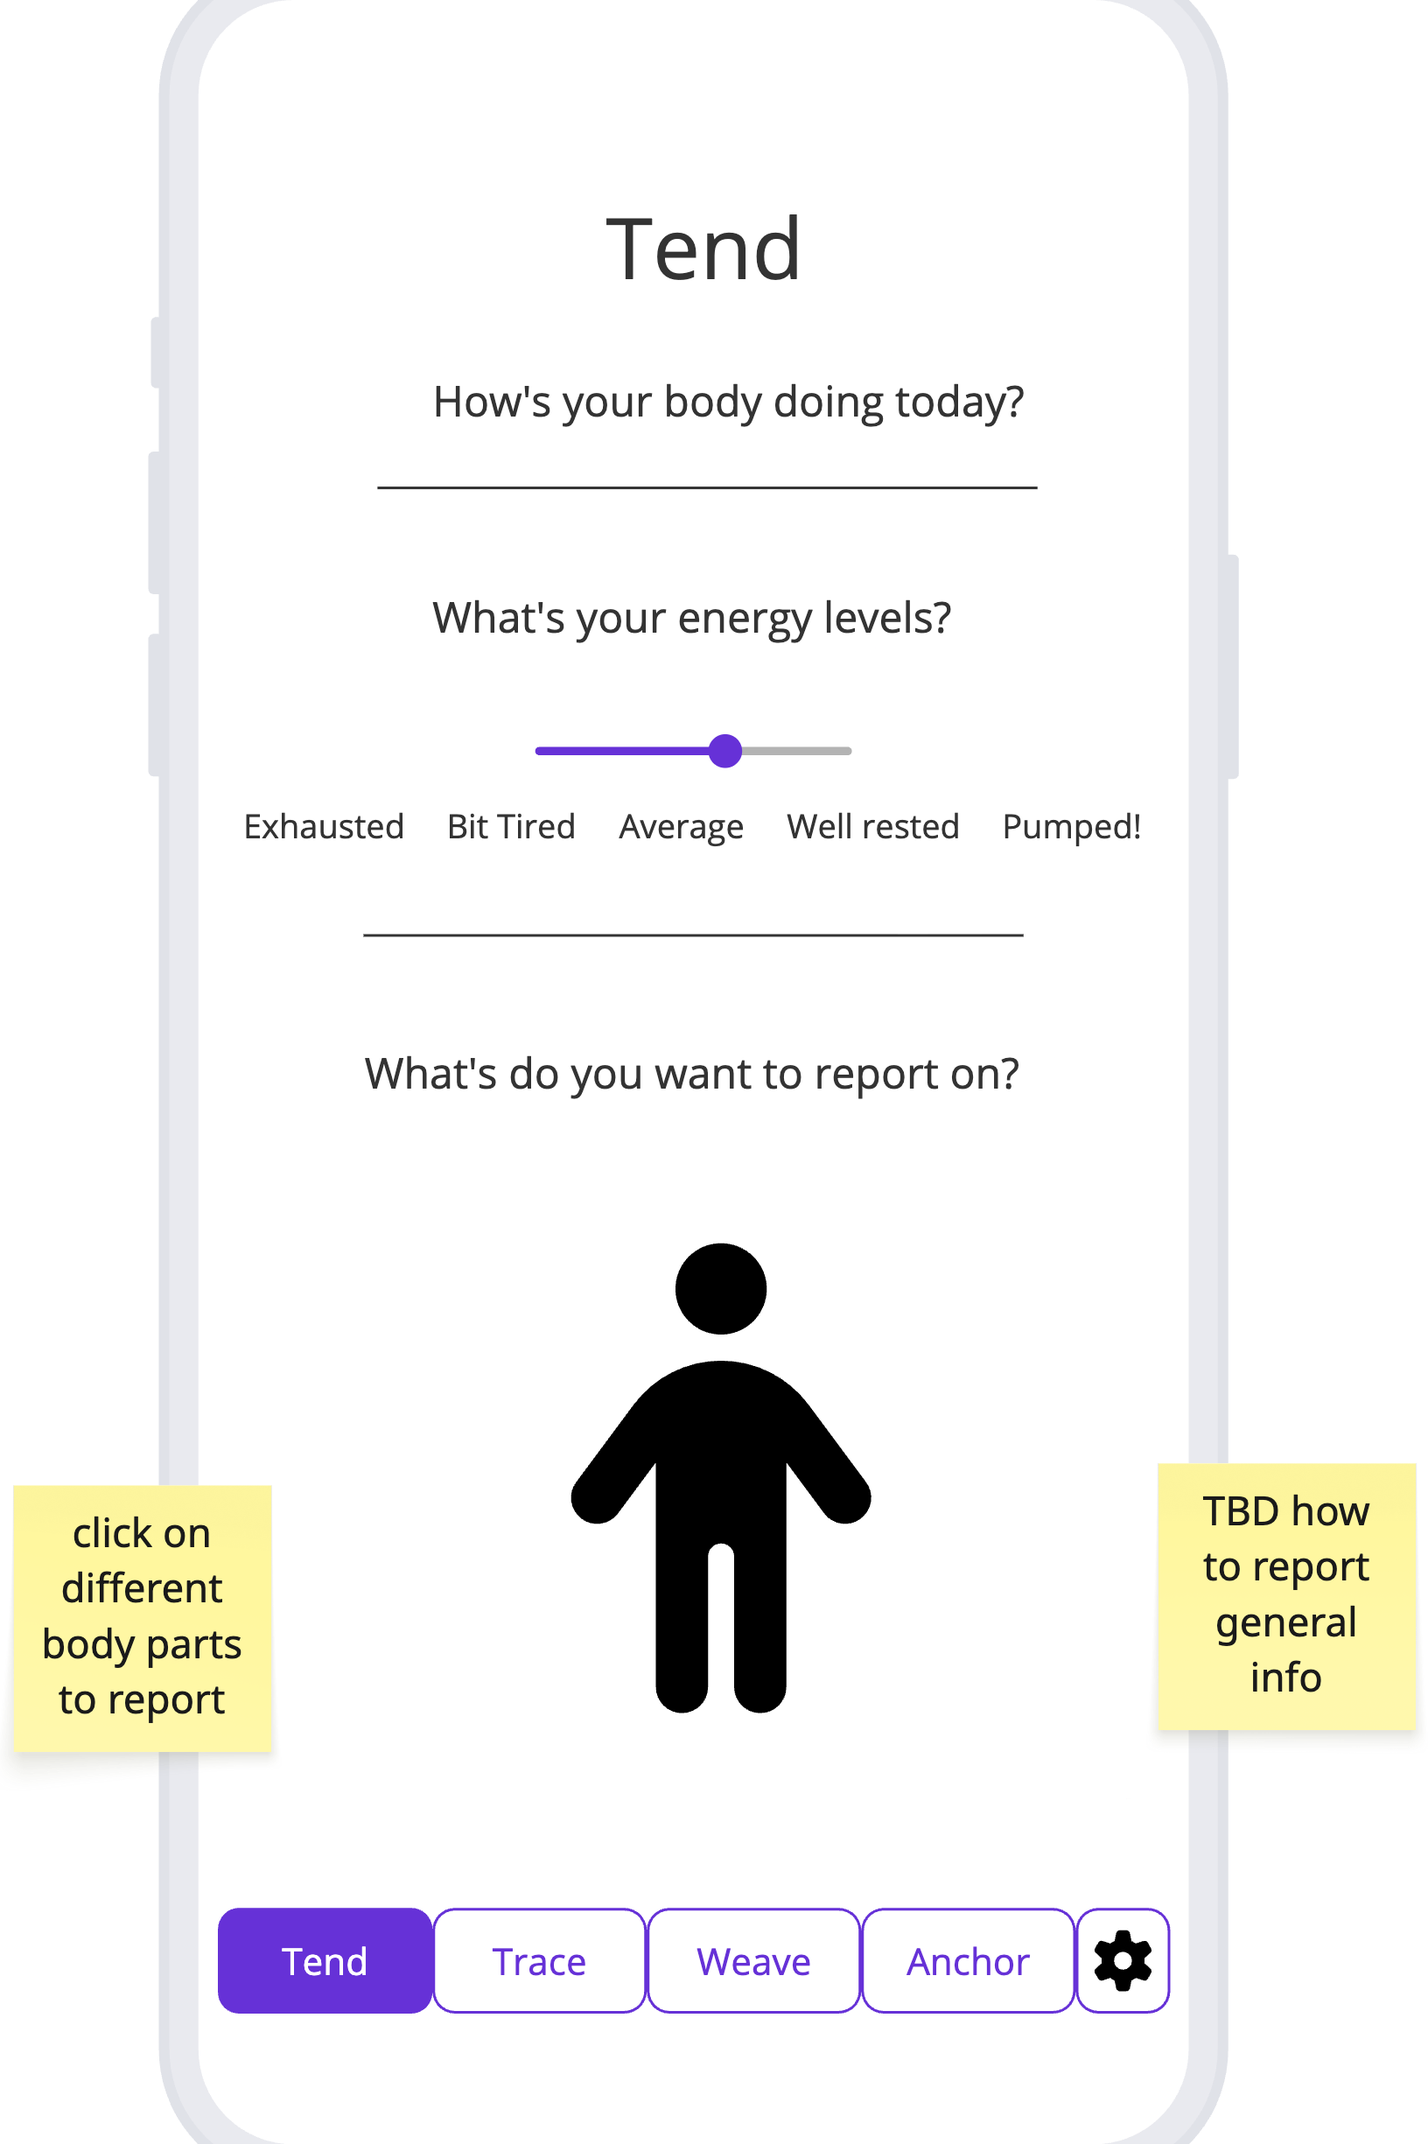
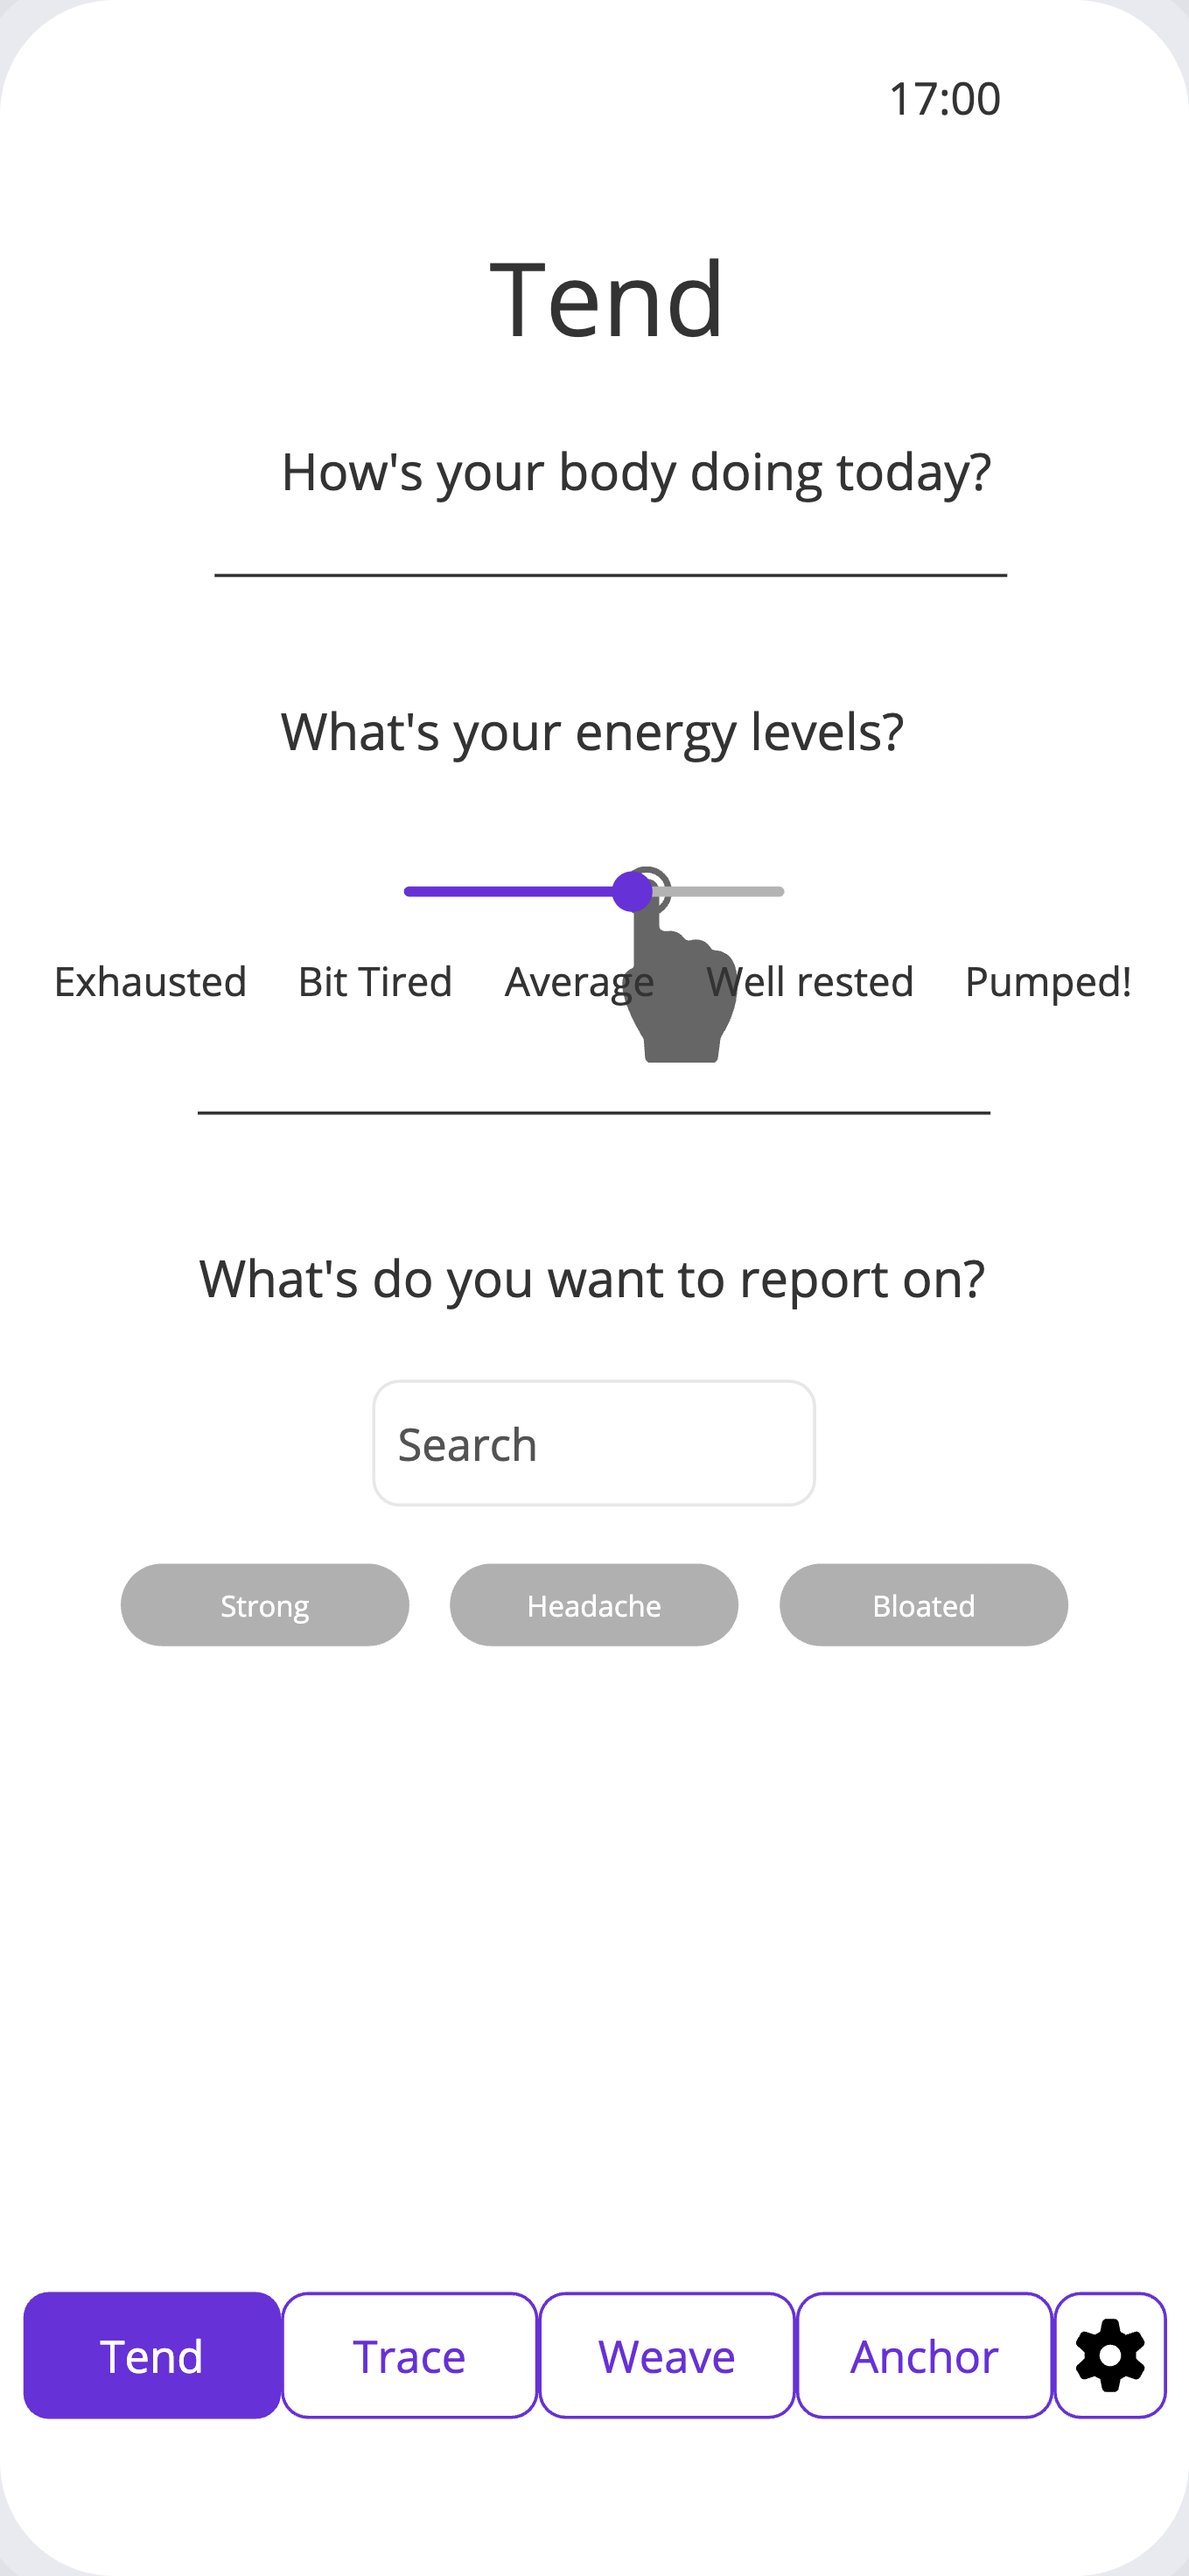
docs: update Physical wireframes (flat search + hold-for-severity) and interaction pattern

diff --git a/docs/design/wireframes/v1/Tend-page-physical.md b/docs/design/wireframes/v1/Tend-page-physical.md
@@ -1,73 +1,100 @@
 # Physical Logging Flow — Wireframe Walkthrough
 
 > These wireframes show **interaction structure only**. Do not derive color, typography, spacing, or visual style from them. Follow `docs/design/brand.md` and `docs/design/visual-style.md` for all visual decisions.
+>
+> Screen copy ("How's your body doing today?", "What's do you want to report on?", energy labels) is **placeholder** — do not implement verbatim.
 
 ---
 
 ## Overview
 
-The Physical logging screen has three sections: **Energy**, **Body**, and **General**. A single submission can log any combination of these. All entries produced share the same timestamp.
+Physical logging is a single screen with two sections: an **Energy slider** and a **flat state search**. No body area navigation — the user searches directly for states. The area context (e.g. "Gut") is inferred from the label's parent in the DB and shown on the chip, but the user never explicitly selects a body area.
 
-Submit is enabled when the Energy slider is set OR at least 1 chip is present. See `docs/design/interaction.md` — *Navigation + flat chips* pattern.
-
-Body areas and Whole Body are navigation only — selecting an area is never a chip. Only states (Tier-2) become chips. Body area chips accumulate freely across areas.
-
-**MVP note:** body area selection uses a text list. A tappable body silhouette image is a future enhancement.
+Submit appears when Energy is set OR at least 1 state chip is present. See `docs/design/interaction.md` — *Flat chips* pattern, extended with hold-for-severity.
 
 ---
 
-## Screen structure
+## Frame-by-frame
 
-One screen with three sections. No sub-navigation — selecting a body area expands its state list inline.
+### Physical-1 — Entry point
+User is on the Tend home screen. They tap the **Physical** tile.
 
 ---
 
-## Flows
+### Physical-2 — Physical screen
+Physical screen opens. Two sections separated by a divider:
 
-### Flow 1 — Energy only
-1. Tend home → tap **Physical**
-2. Use slider to set Energy level (1–5)
-3. Tap **Submit**
-4. Success indicator → return to Tend home
+**Energy** — horizontal slider with 5 labelled positions (placeholder labels). No value set yet.
 
-### Flow 2 — Body area → state(s)
-1. Tend home → tap **Physical**
-2. Select a body area from the list (e.g. **Head**)
-3. State list appears — select one or more states (e.g. Headache)
-4. Optionally set severity (1–5) for the selected state(s)
-5. A chip is added to the tray for each selected state
-6. Repeat steps 2–5 for additional areas if needed
-7. Tap **Submit**
-8. Success indicator → return to Tend home
+**State search** — search bar (empty) with suggestion chips below showing recent states (e.g. Strong, Headache, Bloated). No chips in tray. No submit button.
 
-### Flow 3 — Whole Body → state(s)
-1. Tend home → tap **Physical**
-2. Select **Whole Body**
-3. State list appears — select one or more states (e.g. Achy, Tense)
-4. Optionally set severity (1–5)
-5. Chips added to tray
-6. Repeat if needed
-7. Tap **Submit**
-8. Success indicator → return to Tend home
+User drags the Energy slider to position 4/5.
 
-### Flow 4 — Any combination
-1. Tend home → tap **Physical**
-2. Add any combination of: Energy slider, Body area → state(s), Whole Body → state(s)
-3. Tap **Submit**
-4. Success indicator → return to Tend home
+---
+
+### Physical-3 — Energy set; submit appears
+Energy slider is at 4/5. An **Energy: 4/5** chip appears in the tray at the bottom. Submit button appears. User taps the search bar — keyboard opens.
+
+---
+
+### Physical-4 — Search: area-contextual results
+User types **"gut"**. Suggestions filter to gut-related states the user commonly logs: Bloated, Cramps, Feeling good!
+
+User taps **Cramps**.
+
+---
+
+### Physical-5 — State chip added
+**Gut: cramps** chip appears in the tray alongside Energy: 4/5. Submit remains available.
+
+Chip interactions:
+- **Tap** — removes the chip
+- **Hold** — opens inline severity slider
+
+---
+
+### Physical-6 — Severity: hold to set
+User holds the **Gut: cramps** chip. An inline severity slider (1–5) appears anchored to the chip. User drags to 4.
+
+---
+
+### Physical-7 — Severity confirmed
+Chip updates to **Gut: cramps (4/5)**. Cramps is removed from suggestions — already-selected states are excluded. Submit remains available.
+
+---
+
+### Physical-8 — Continue logging
+User continues typing **"gut d"** — suggestions narrow to Diarrhea. Tray shows Energy: 4/5 + Gut: cramps (4/5). User can keep adding states or submit.
 
 ---
 
 ## Chip behaviour
 
-- Selecting a body area or Whole Body opens its state list — the area itself is never a chip
-- Selecting a state adds a chip to the tray
-- Tapping a chip deselects it and removes it from the tray
-- Chips from multiple areas accumulate (e.g. Head → Headache and Whole Body → Achy are both valid chips in the same submission)
-- Submit disappears when Energy is unset AND the tray is empty
+| Interaction | Result |
+|-------------|--------|
+| Tap suggestion | Adds chip; suggestion removed from results |
+| Tap chip | Removes chip; state returns to suggestions |
+| Hold chip | Opens inline severity slider (1–5) |
+| Set severity | Chip label updates, e.g. "Gut: cramps (4/5)" |
+| Submit enabled | When Energy is set OR ≥1 state chip present |
+| Submit disappears | When Energy is unset AND tray is empty |
 
 ---
 
-## Terminology
+## Chip label format
 
-Use **states** throughout — not symptoms. States covers both negative (Headache, Achy) and positive (Clear-headed, Relaxed) without implying something is wrong.
+- State with area context: `[Area]: [state]` — e.g. **Gut: cramps**
+- State with severity: `[Area]: [state] ([severity]/5)` — e.g. **Gut: cramps (4/5)**
+- Whole-body states (no specific area): format TBD
+- Energy: **Energy: [value]/5**
+
+---
+
+## Search behaviour
+
+- Default (empty search): shows recently used states
+- Typing: filters to matching states; area name can be used as context (e.g. "gut" surfaces gut-related states, "gut d" narrows to Diarrhea)
+- Already-selected states are excluded from results
+- `+ Add [query]` offered when no results match — creates a custom state
+
+> **Open question:** exact search matching logic is TBD. The wireframes show area-contextual search but the full rules — whether area names are searchable keywords, how recency interacts with typed search — still need to be worked out.

diff --git a/docs/design/interaction.md b/docs/design/interaction.md
@@ -61,8 +61,8 @@ Three variants:
 **Flat chips** (Food, Activity)
 Each label selection adds a chip. Chips accumulate independently. Tapping a chip removes it. No replacement logic.
 
-**Navigation + flat chips** (Physical)
-Tier-1 items (body areas: Head, Whole Body, etc.) are navigation only — they are never chips and cannot be submitted alone. Tier-2 items (symptoms/states: Headache, Achy, etc.) become chips. Chips accumulate freely across any Tier-1 area. No replacement logic — a user can hold Headache (from Head) and Achy (from Whole Body) simultaneously. Physical also has an Energy slider (numeric, not a chip); submit is enabled when the Energy slider is set OR at least 1 chip is present.
+**Flat chips + hold-for-severity** (Physical)
+Same flat chip mechanic as Food, with two extensions: (1) the Energy slider is a separate input on the same screen — setting it creates an Energy chip in the tray; (2) state chips support a hold gesture that opens an inline severity slider (1–5). Holding a chip and setting severity updates the chip label to include the value (e.g. "Gut: cramps (4/5)"). Tap still removes. Submit is enabled when Energy is set OR at least 1 state chip is present.
 
 **Full hierarchical chips** (Emotions)
 Both tiers produce chips, with a replacement rule: selecting a child of an existing chip replaces that chip (more specific subsumes the parent). Selecting a sibling of an existing chip adds a new chip alongside it. A user can hold multiple chips from different branches simultaneously, but each branch path holds only its deepest selection.
